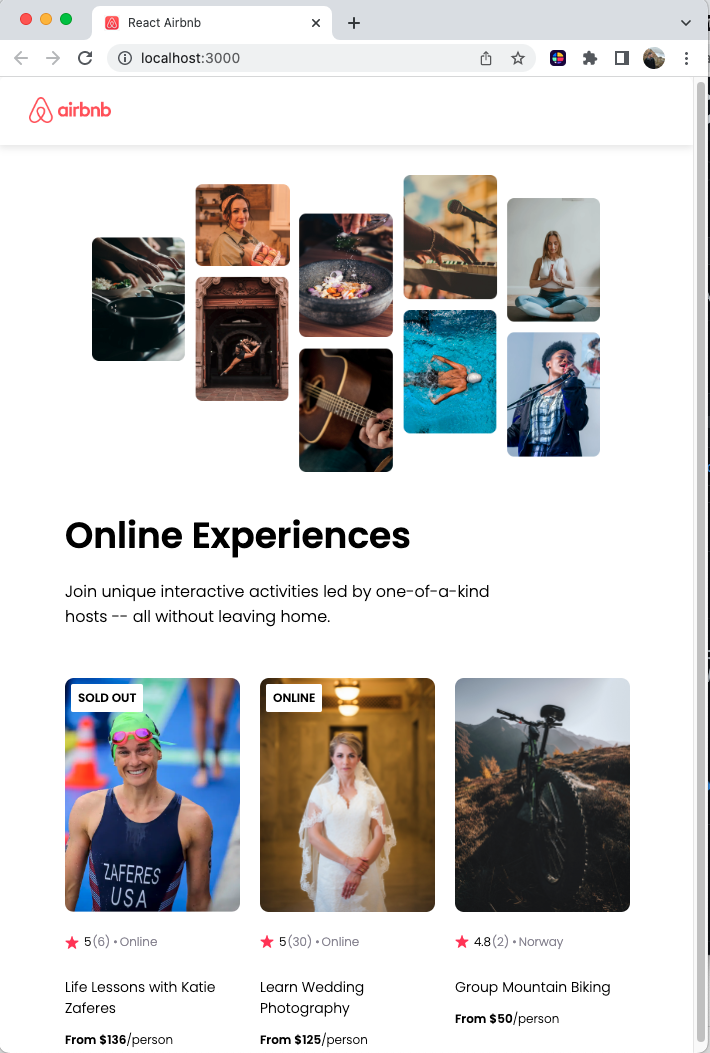
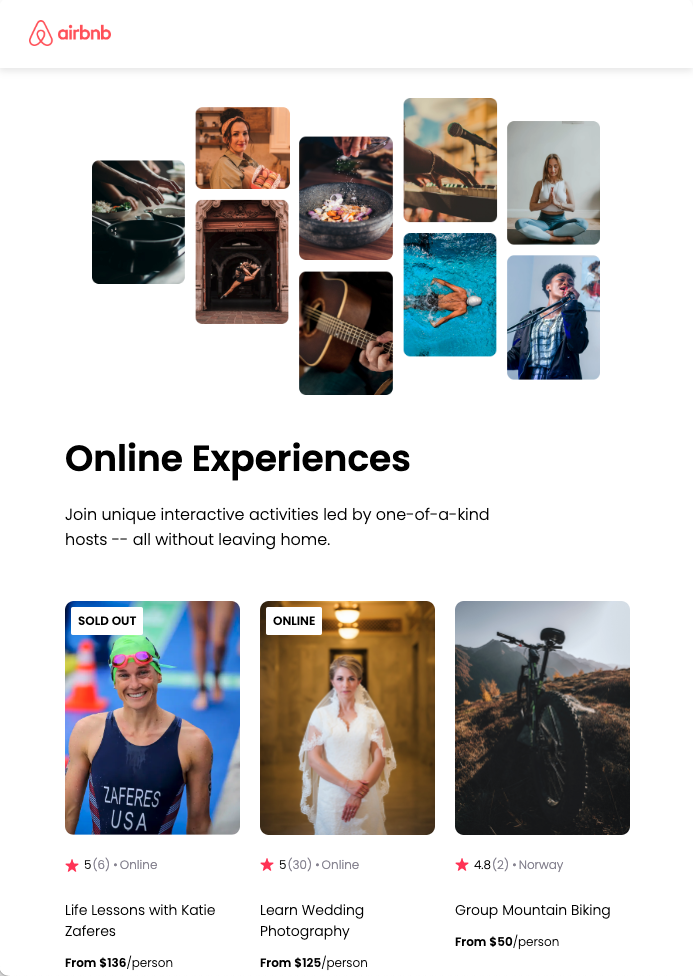
Port 2

diff --git a/index.html b/index.html
@@ -588,19 +588,20 @@
             <div class="col-lg-4 col-md-6 portfolio-item filter-web">
               <div class="portfolio-wrap">
                 <img
-                  src="assets/img/portfolio/portfolio-2.jpg"
+                  src="assets/img/portfolio/ReactTravelJournal.png"
                   class="img-fluid"
-                  alt=""
+                  alt="Travel Journal Home Page"
                 />
                 <div class="portfolio-links">
                   <a
-                    href="assets/img/portfolio/portfolio-2.jpg"
+                    href="assets/img/portfolio/ReactTravelJournal.png"
                     data-gallery="portfolioGallery"
                     class="portfolio-lightbox"
-                    title="Web 3"
+                    title="My Travel Journal /n assets/img/portfolio/ReactTravelJournal.png "
                     ><i class="bx bx-plus"></i
                   ></a>
-                  <a href="portfolio-details.html" title="More Details"
+                  <a href="https://myreact-travel-journal.netlify.app/" 
+                     title="More Details"
                     ><i class="bx bx-link"></i
                   ></a>
                 </div>
@@ -610,13 +611,13 @@
             <div class="col-lg-4 col-md-6 portfolio-item filter-app">
               <div class="portfolio-wrap">
                 <img
-                  src="assets/img/portfolio/portfolio-3.jpg"
+                  src="assets/img/portfolio/ReactAirbnb.png"
                   class="img-fluid"
                   alt=""
                 />
                 <div class="portfolio-links">
                   <a
-                    href="assets/img/portfolio/portfolio-3.jpg"
+                    href="assets/img/portfolio/ReactAirbnb.png"
                     data-gallery="portfolioGallery"
                     class="portfolio-lightbox"
                     title="App 2"
